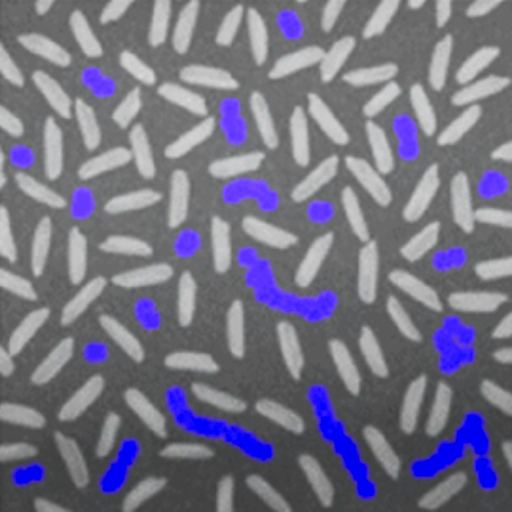
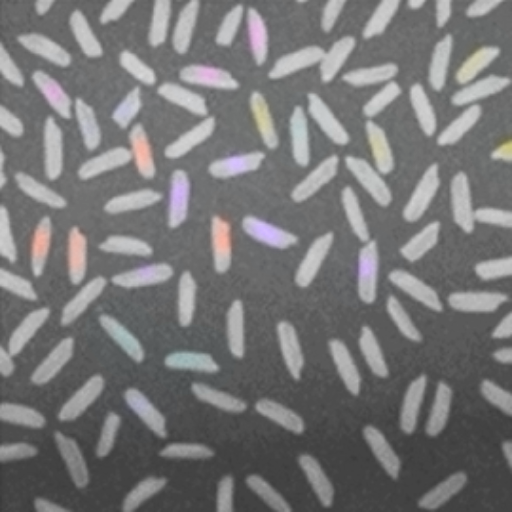
assets

diff --git a/src/variational/variational_colorization.py b/src/variational/variational_colorization.py
@@ -10,7 +10,7 @@ def laplacian(img):
 # alpha: paso de descenso gradiente, muy grande causa inestabilidad
 # gamma: mayor, menos difusión (bordes más nítidos)
 #def variational_colorization(l_channel, ab_hint, mask, lambda_=100, gamma=0.0001, alpha=0.001, iterations=10000):
-def variational_colorization(l_channel, ab_hint, mask, lambda_=2000, gamma=0.00001, alpha=0.00001, iterations=10):
+def variational_colorization(l_channel, ab_hint, mask, lambda_=100, gamma=0.0001, alpha=0.0001, iterations=2000):
     a_channel = ab_hint[:, :, 0].astype(np.float32)
     b_channel = ab_hint[:, :, 1].astype(np.float32)
     mask = mask.astype(np.float32)
@@ -22,8 +22,13 @@ def variational_colorization(l_channel, ab_hint, mask, lambda_=2000, gamma=0.000
         a_update = alpha * (lambda_ * laplacian_a - gamma * (a_channel - ab_hint[:, :, 0]))
         b_update = alpha * (lambda_ * laplacian_b - gamma * (b_channel - ab_hint[:, :, 1]))
         
-        a_channel = (1 - mask) * (a_channel + a_update) + mask * ab_hint[:, :, 0]
-        b_channel = (1 - mask) * (b_channel + b_update) + mask * ab_hint[:, :, 1]
+        # Opción 1: No imponer las condiciones de contorno en cada iteración
+        a_channel = a_channel + a_update
+        b_channel = b_channel + b_update
+        
+        # Opción 2: imposición de condiciones de contorno en cada iteración
+        #a_channel = (1 - mask) * (a_channel + a_update) + mask * ab_hint[:, :, 0]
+        #b_channel = (1 - mask) * (b_channel + b_update) + mask * ab_hint[:, :, 1]
         
         # Aplicar clamp para mantener los valores dentro del rango [-128, 127]
         a_channel = np.clip(a_channel, -128, 127)
